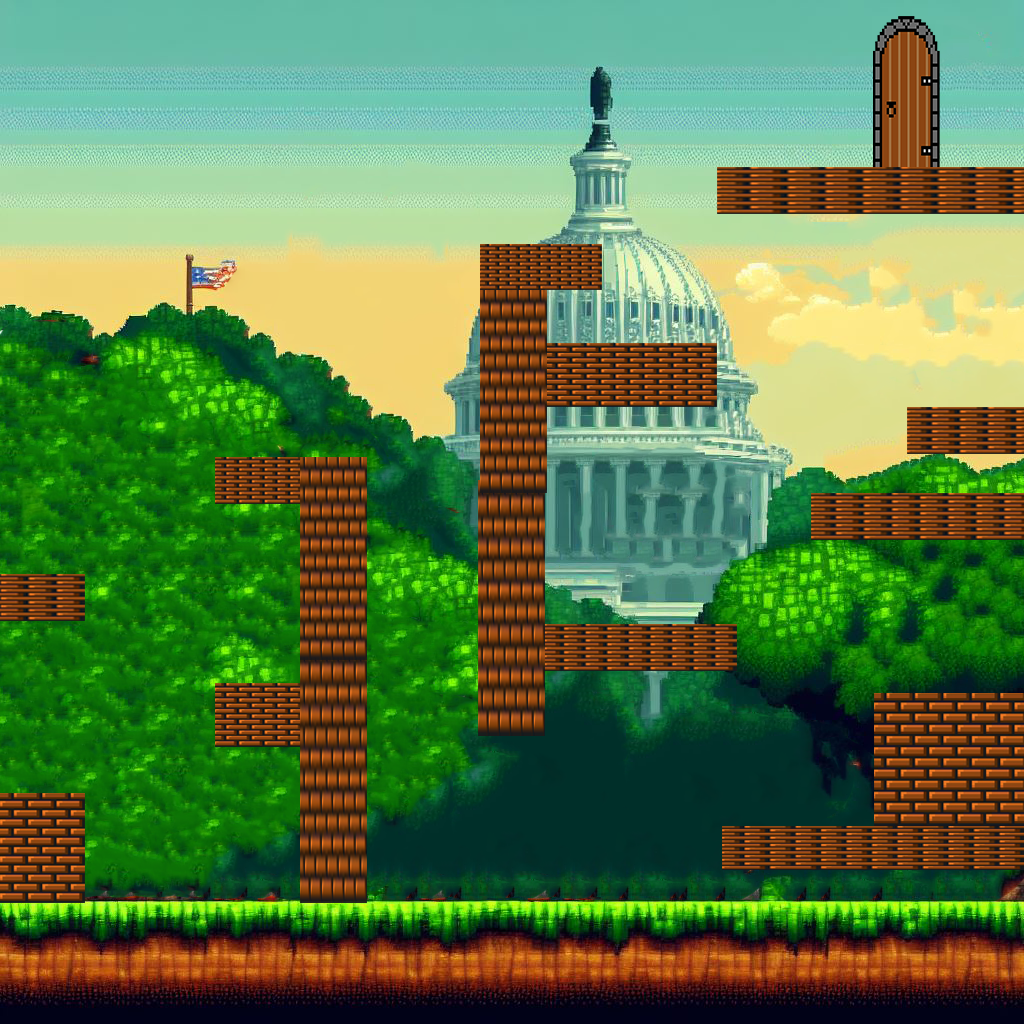
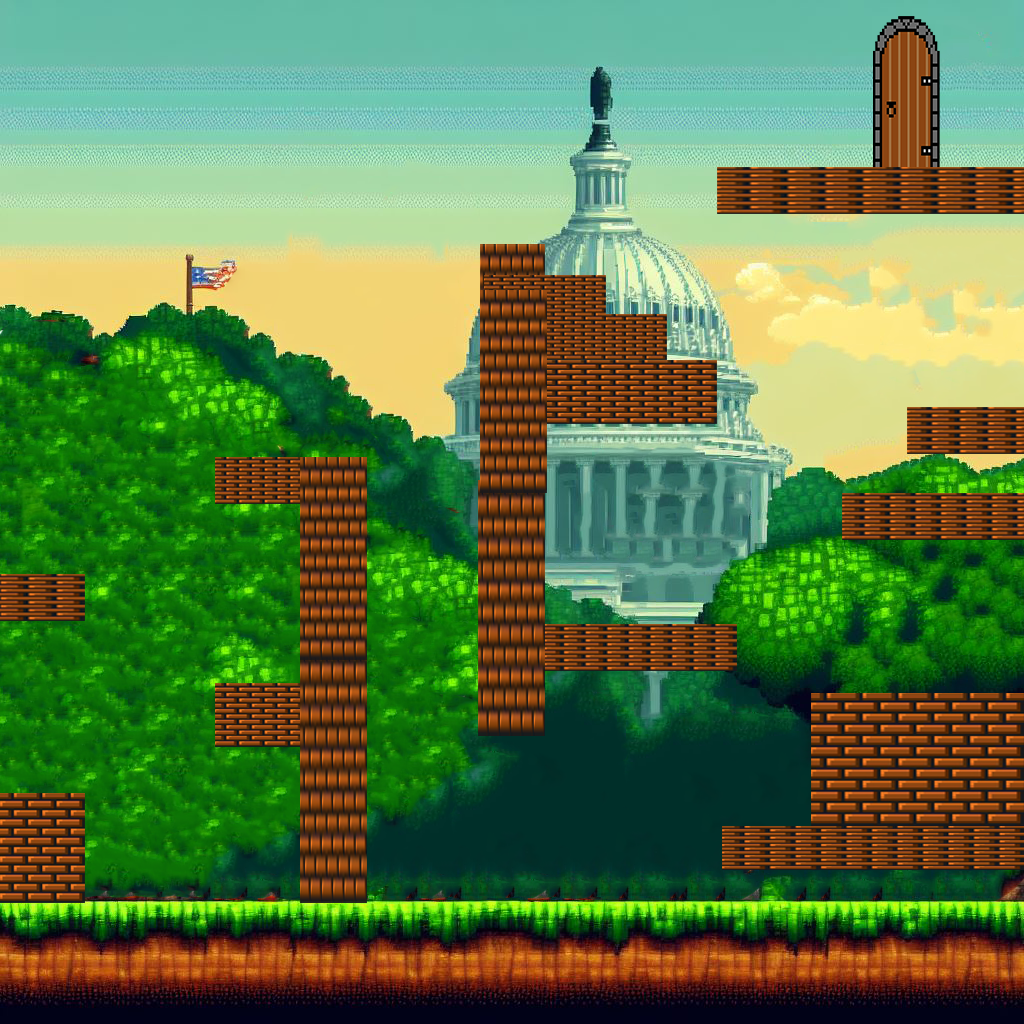
Finally put all walls in all of the levels

Changed region(s): [[0.4688, 0.2188, 0.7188, 0.4375], [0.7812, 0.6562, 1.0, 0.8125], [0.7812, 0.4688, 1.0, 0.5312]]

diff --git a/level4.cpp b/level4.cpp
@@ -1,12 +1,12 @@
 #include "level4.h"
 
-Level4::Level4(QString background) : Level(background, QPoint(10, -60)) {
+Level4::Level4(QString background) : Level(background, QPoint(90, -105)) {
     // Create levels question
-    Door door(QPoint(91, -106), "What significant event followed the American victory at Saratoga in 1777?", &worldState);
-    door.insertQuesionResponse("The signing of the Treaty of Paris.", false);
-    door.insertQuesionResponse("The capture of Charleston, South Carolina.", false);
-    door.insertQuesionResponse("The formation of the Franco-American alliance.", true);
-    door.insertQuesionResponse("The commencement of negotiations in Paris.", false);
+    Door door(QPoint(70, -60), "What significant event followed the American victory at Saratoga in 1777?", &worldState);
+    door.insertQuesionResponse("The signing of \n the Treaty of Paris.", false);
+    door.insertQuesionResponse("The capture of \n Charleston, South Carolina.", false);
+    door.insertQuesionResponse("The formation of \n the Franco-American \n alliance.", true);
+    door.insertQuesionResponse("The commencement \n of negotiations \n in Paris.", false);
     context = "Following the American victory at Saratoga, the American diplomat Benjamin Franklin negotiated a treaty of \n alliance with France in February 1778. The Franco-American alliance brought crucial military and financial support to the American \n cause, including French troops, ships, and loans, significantly bolstering the Continental Army's capabilities. After the failure of \n the northern campaign at Saratoga, the British shifted their focus to the southern colonies, hoping to rally Loyalist support \n and gain control of strategic ports and resources. British forces, led by General Charles Cornwallis, achieved initial successes \n in the South, capturing Charleston, South Carolina, and winning several battles. Despite British advances, American forces, \n led by generals such as Nathanael Greene and Daniel Morgan, employed guerrilla warfare tactics and waged a relentless \n campaign against British supply lines and outposts. The American victories at the Battles of King's Mountain (1780) and Cowpens (1781)  \n weakened British control in the South and boosted American morale. In 1781, American and French forces, under the \n command of General George Washington and the French General Rochambeau, laid siege to the British army under General Cornwallis at \n Yorktown, Virginia. The combined American-French forces effectively trapped Cornwallis's army by land and sea, leading to the \n surrender of the British forces on October 19, 1781. Negotiations for peace began in Paris in 1782, culminating in the signing of the \nTreaty of Paris on September 3, 1783. The treaty formally ended the American Revolutionary War and recognized the independence \n of the United States of America. Britain also agreed to withdraw its troops from American soil and established the \n boundaries of the new nation.";
     door.insertHint("Look for significant \n diplomatic development \n after Saratoga.");
     door.insertHint("Consider the involvement \n of Benjamin Franklin, a key \n American diplomat.");
@@ -16,8 +16,21 @@ Level4::Level4(QString background) : Level(background, QPoint(10, -60)) {
     createCollisionObject(0., -111., 120., 5.);
     createCollisionObject(-1., -111., 1., 115.);
     createCollisionObject(120., -111., 1., 115.);
-    createCollisionObject(0., -111., 10., 17.);
-    createCollisionObject(36., -111., 7., 57.);
+    createCollisionObject(0., -111., 18., 1.);
+    createCollisionObject(35., -87., 7., 54.);
+    createCollisionObject(35., -87., 85., 4.);
+    createCollisionObject(25., -31., 60., 2.);
+    createCollisionObject(0., -111., 16., 17.);
+    createCollisionObject(25., -87., 13., 5.);
+    createCollisionObject(0., -70., 10., 2.);
+    createCollisionObject(25., -57., 13., 3.);
+    createCollisionObject(81., -65., 7., 45.);
+    createCollisionObject(35., -87., 19., 17.);
+    createCollisionObject(68., -30., 18., 5.);
+    createCollisionObject(0., -44., 10., 2.);
+    createCollisionObject(63., -65., 45., 4.);
+    createCollisionObject(100., -42., 21., 4.);
+    createCollisionObject(79., -21., 18., 2.);
 }
 
 void Level4::renderCustom(QPainter *painter) {

diff --git a/level3.cpp b/level3.cpp
@@ -2,7 +2,7 @@
 
 Level3::Level3(QString background) : Level(background, QPoint(10, -60)) {
     // Create levels question
-    Door door(QPoint(91, -106), "What was the British strategy in 1777 to deal with the rebellious American colonies?", &worldState);
+    Door door(QPoint(102, -21), "What was the British strategy in 1777 to deal with the rebellious American colonies?", &worldState);
     door.insertQuesionResponse("Dividing the colonies \n with a three-pronged \n military campaign.", true);
     door.insertQuesionResponse("Launching a direct \n assault on Philadelphia.", false);
     door.insertQuesionResponse("Negotiating a peace\n treaty with \n American leaders.", false);
@@ -17,7 +17,20 @@ Level3::Level3(QString background) : Level(background, QPoint(10, -60)) {
     createCollisionObject(-1., -111., 1., 115.);
     createCollisionObject(120., -111., 1., 115.);
     createCollisionObject(0., -111., 10., 17.);
+    createCollisionObject(25., -87., 13., 5.);
+    createCollisionObject(0., -70., 10., 2.);
+    createCollisionObject(25., -57., 13., 3.);
     createCollisionObject(36., -111., 7., 57.);
+    createCollisionObject(57., -86., 7., 57.);
+    createCollisionObject(85., -109., 40., 12.);
+    createCollisionObject(95., -94., 45., 12.);
+    createCollisionObject(64., -78., 23., 4.);
+    createCollisionObject(64., -50., 19., 5.);
+    createCollisionObject(64., -44., 13., 5.);
+    createCollisionObject(64., -38., 6., 5.);
+    createCollisionObject(99., -63., 21., 4.);
+    createCollisionObject(106., -52., 21., 4.);
+    createCollisionObject(84., -21., 21., 1.);
 }
 
 void Level3::renderCustom(QPainter *painter) {

diff --git a/level.cpp b/level.cpp
@@ -94,10 +94,10 @@ void Level::render(QPainter *painter) {
     // player
     player->render(painter);
 
-    // walls
+    //walls
     painter->setBrush(Qt::red);
     // for (const Wall& wall : collisionObjects)
-        //painter->drawRect(wall.x * SCALE_FACTOR, wall.y * SCALE_FACTOR, wall.width * SCALE_FACTOR, wall.height * SCALE_FACTOR);
+    //     painter->drawRect(wall.x * SCALE_FACTOR, wall.y * SCALE_FACTOR, wall.width * SCALE_FACTOR, wall.height * SCALE_FACTOR);
 
     // door
     painter->setBrush(Qt::green);

diff --git a/level2.cpp b/level2.cpp
@@ -24,7 +24,7 @@ Level2::Level2(QString background) : Level(background, QPoint(10, -60)) {
     createCollisionObject(60., -49., 19., 10.);
     createCollisionObject(0., -30., 52., 4.);
     createCollisionObject(72., -50., 7., 30.);
-    createCollisionObject(85., -82., 30., 4.);
+    createCollisionObject(85., -82., 35., 4.);
     createCollisionObject(60., -83., 7., 30.);
     createCollisionObject(60., -90., 12., 6.);
     createCollisionObject(120., -111., 1., 115.);

diff --git a/player.h b/player.h
@@ -35,7 +35,7 @@ public:
 
     // player properties
     float walkSpeed = 35.0;
-    float jumpPower = 75.0;
+    float jumpPower = 80.0;
 
     /*!
      * \brief render - This method will render the player to the screen.
